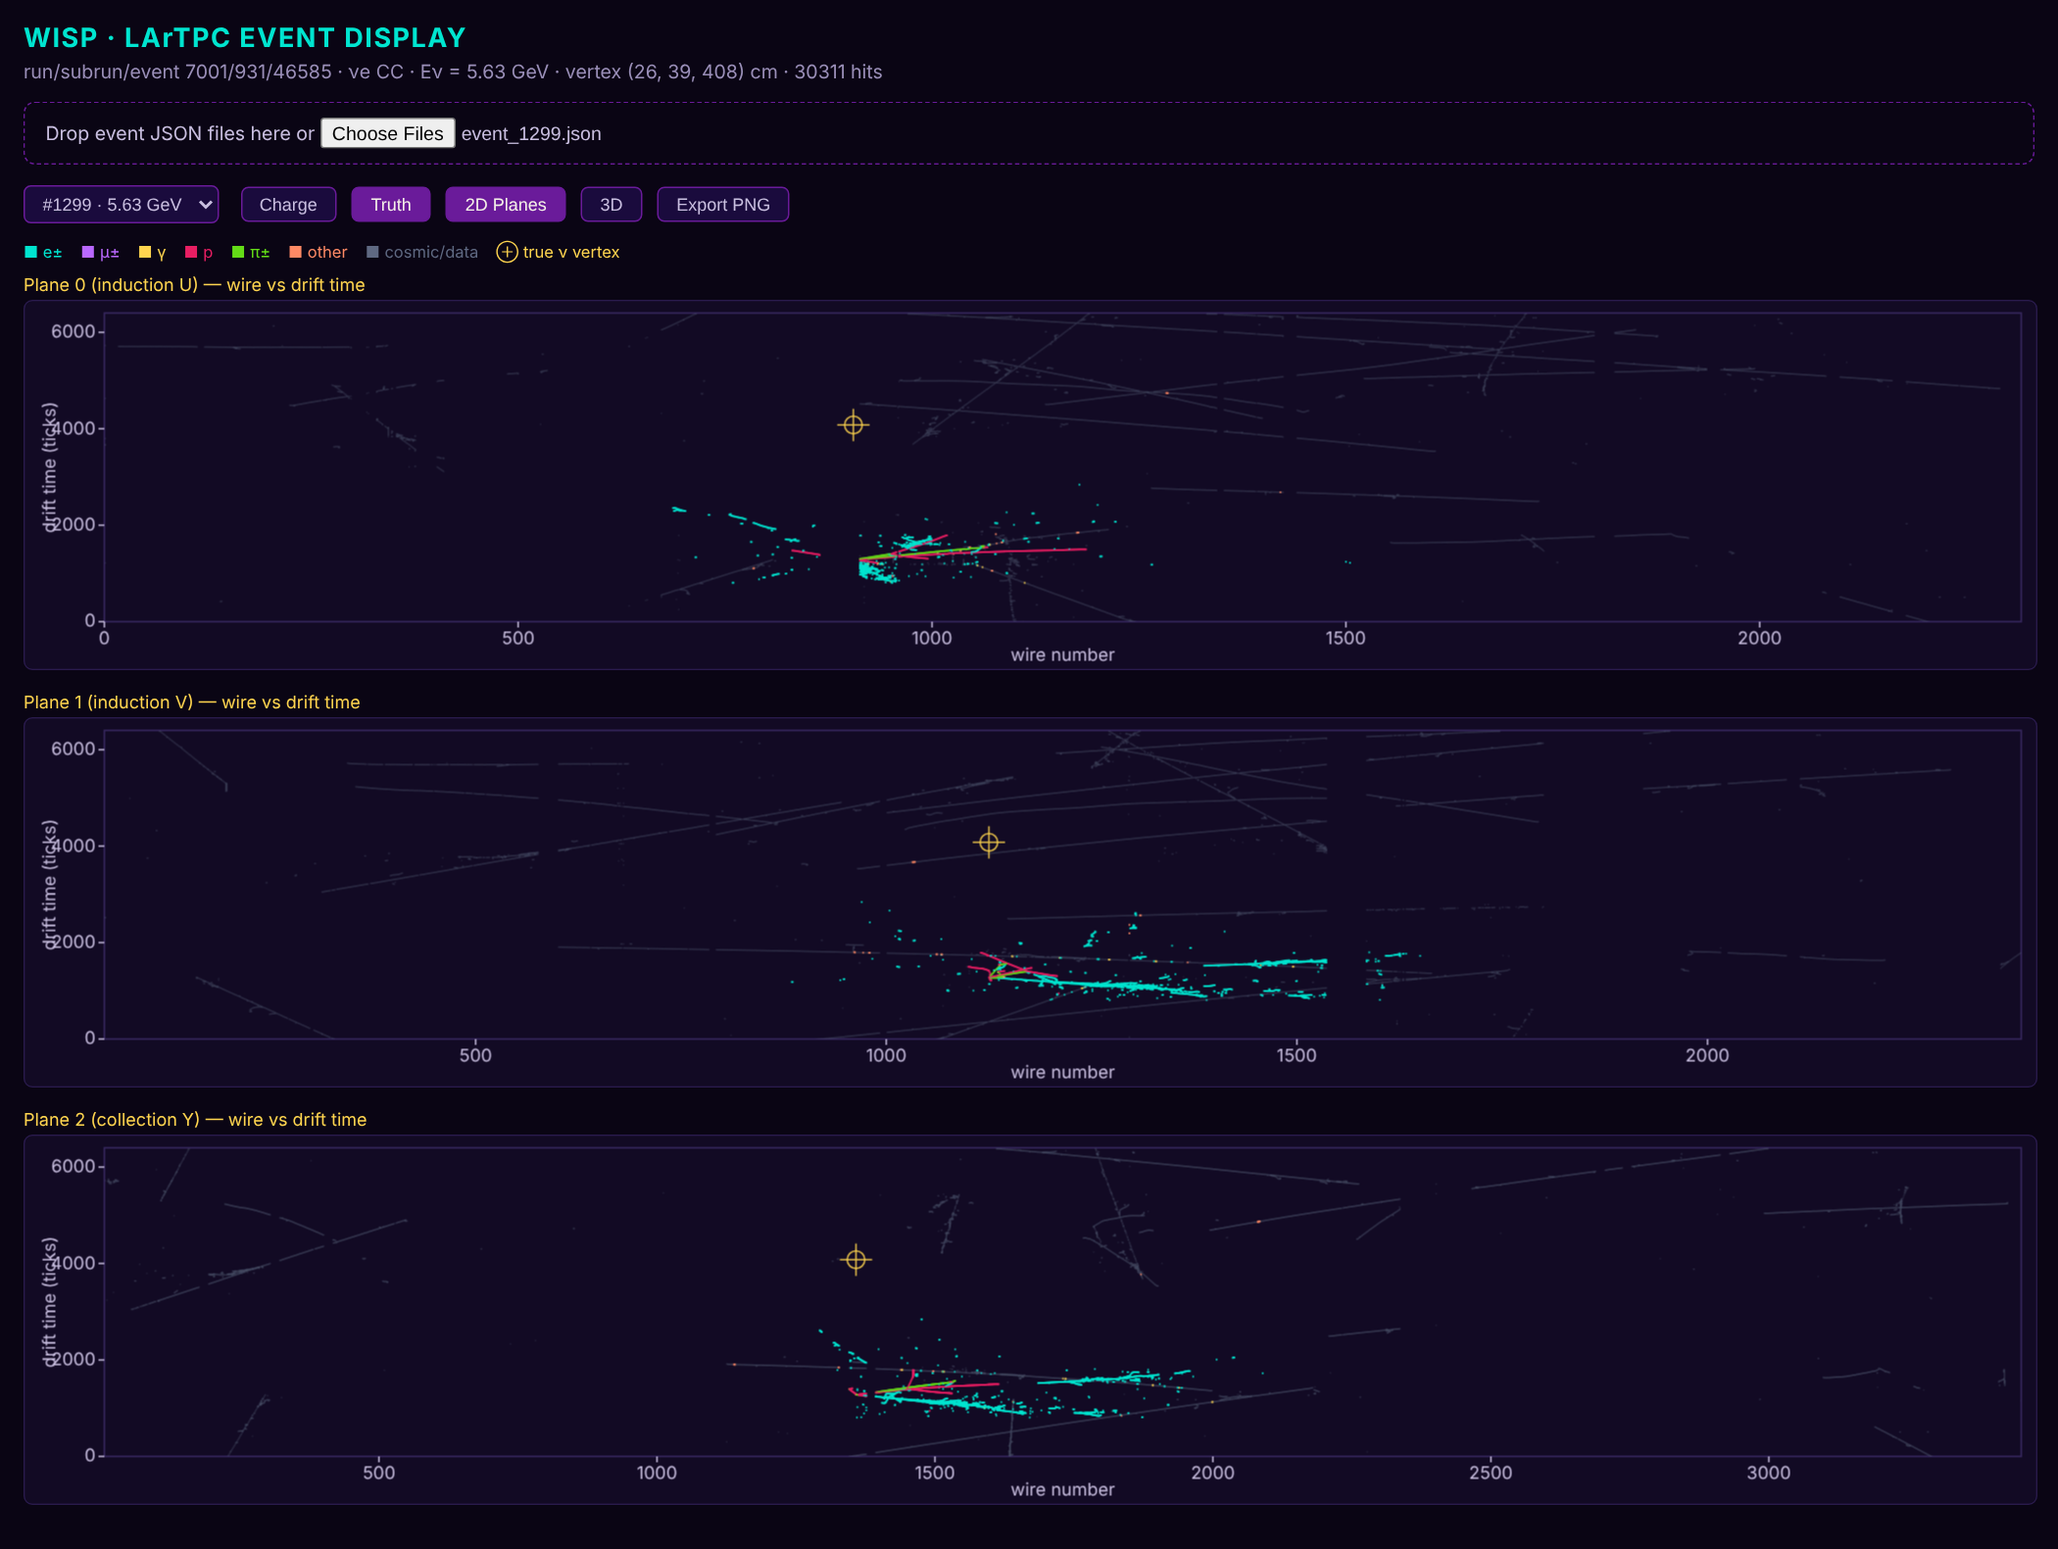
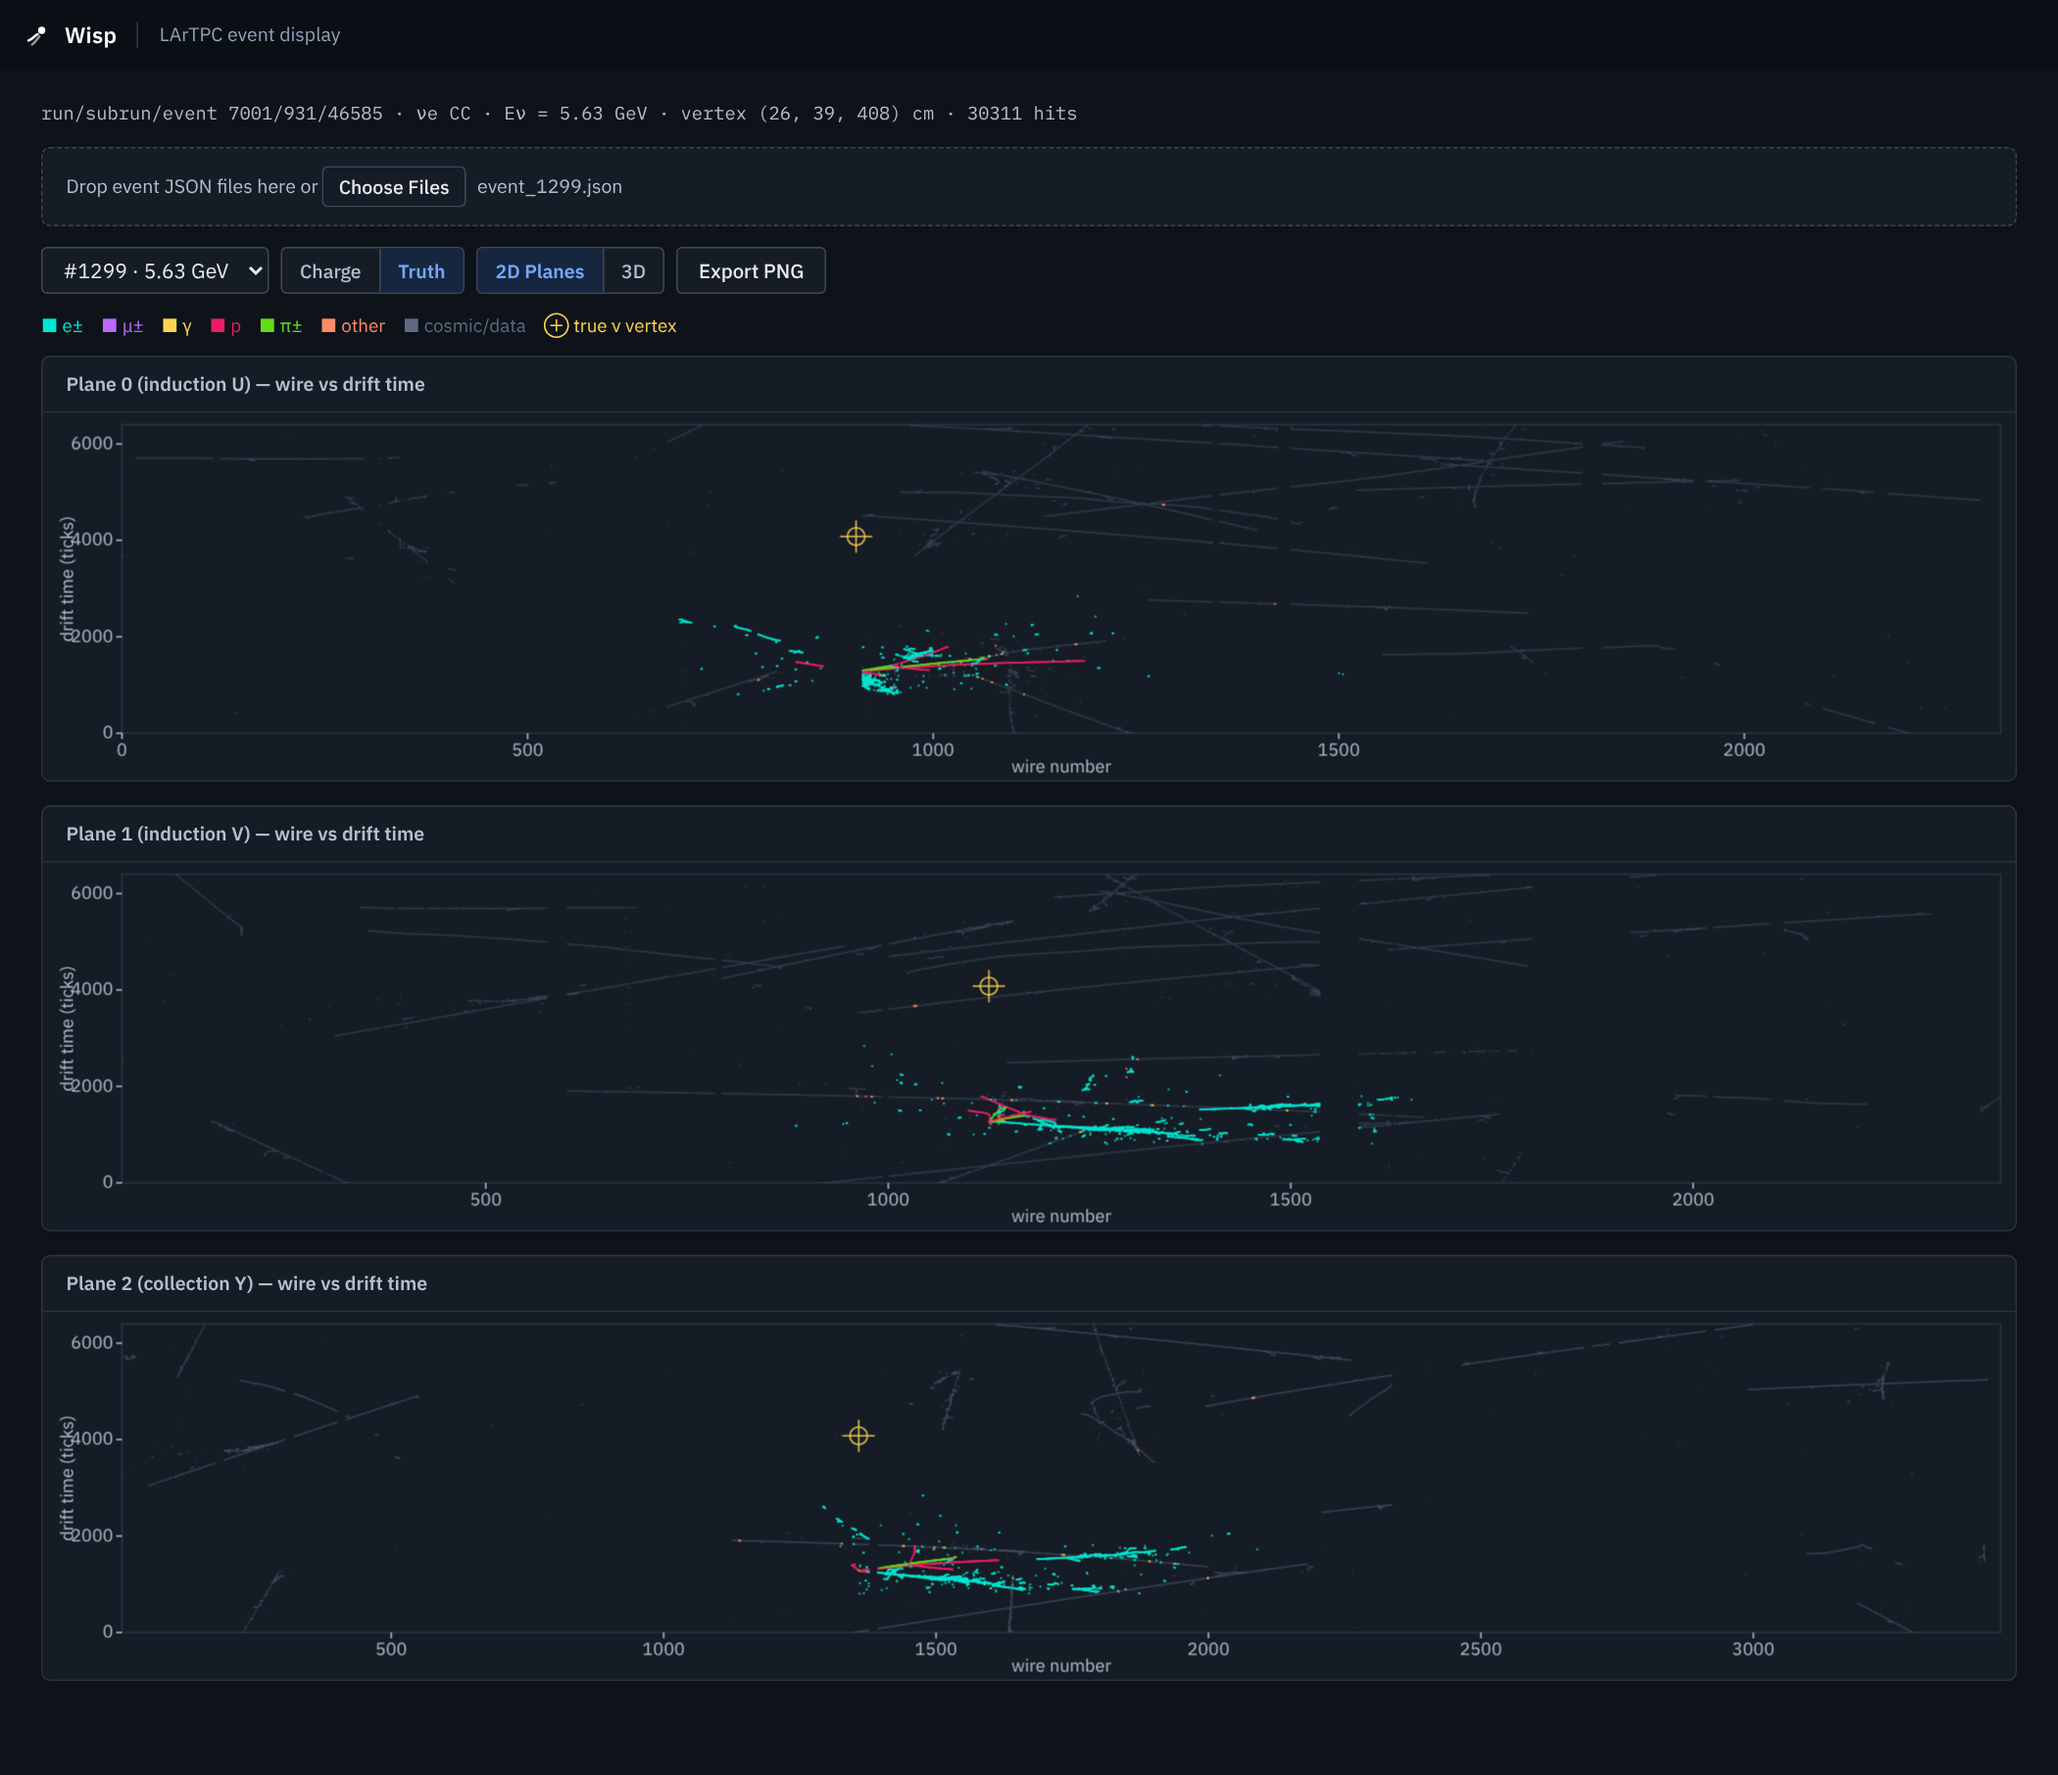
Adopt the Faerie dark theme: IBM Plex, top bar, segmented controls; retake screenshots
Claude-Session: https://claude.ai/code/session_01QGxAVdhF9mKgdVPjjGYVio

diff --git a/index.html b/index.html
@@ -2,40 +2,87 @@
 <html lang="en">
 <head>
 <meta charset="utf-8">
+<meta name="viewport" content="width=device-width, initial-scale=1">
 <title>Wisp — LArTPC Event Display</title>
+<link rel="preconnect" href="https://fonts.googleapis.com">
+<link rel="preconnect" href="https://fonts.gstatic.com" crossorigin>
+<link rel="stylesheet" href="https://fonts.googleapis.com/css2?family=IBM+Plex+Mono:wght@400;500&family=IBM+Plex+Sans:wght@400;500;600&display=swap">
 <style>
-  body { background:#0A0514; color:#F5F1E8; font-family:system-ui,sans-serif;
-         margin:0; padding:16px; }
-  h1 { font-size:18px; color:#00E5D0; margin:0 0 4px; letter-spacing:1px; }
-  #meta { font-size:13px; color:#9a8fb8; margin-bottom:10px; min-height:18px; }
-  .plane { margin-bottom:14px; }
-  .plane label { font-size:12px; color:#FFD54F; display:block; margin-bottom:3px; }
-  canvas { background:#120a24; border:1px solid #2a1b4d; border-radius:6px;
-           width:100%; display:block; }
-  #drop { border:1px dashed #6A1B9A; border-radius:8px; padding:10px 14px;
-          font-size:13px; color:#c9bfe0; margin-bottom:14px; }
-  input[type=file] { color:#c9bfe0; font-size:13px; }
-  #bar button { background:#1A0B3D; color:#c9bfe0; border:1px solid #6A1B9A;
-    border-radius:5px; padding:4px 12px; margin-right:6px; font-size:12px;
-    cursor:pointer; }
-  #bar button.on { background:#6A1B9A; color:#F5F1E8; }
-  #bar { margin-bottom:12px; }
-  #legend { font-size:11px; color:#9a8fb8; margin-bottom:8px; }
-  #legend span { margin-right:12px; }
-  #view3d canvas { height:520px; cursor:grab; }
+  /* Faerie design tokens (dark). Layout: a dark top bar, flat bordered containers on a grey plane.
+     The web font is optional: offline, the system sans-serif stack takes over. */
+  :root {
+    color-scheme: dark;
+    --plane: #0e131a; --surface: #161c25; --surface-2: #1d2530; --surface-3: #25303d;
+    --line: #2a3441; --line-strong: #3d4a5b;
+    --ink: #e7ebf1; --ink-2: #b4bfcd; --ink-3: #8795a8;
+    --topbar: #0a0f16; --topbar-ink: #ffffff; --topbar-dim: #93a1b5;
+    --primary: #4c8df6; --primary-soft: #16263f; --link: #74a8f9; --focus: #74a8f9;
+    --radius: 6px; --radius-sm: 4px;
+    --sans: "IBM Plex Sans", "Segoe UI", system-ui, -apple-system, "Helvetica Neue", Arial, sans-serif;
+    --mono: "IBM Plex Mono", ui-monospace, "SF Mono", Menlo, Consolas, monospace;
+  }
+  * { box-sizing: border-box; }
+  body { margin: 0; background: var(--plane); color: var(--ink); font: 14px/1.45 var(--sans);
+         -webkit-font-smoothing: antialiased; font-variant-numeric: tabular-nums; }
+  :focus-visible { outline: 2px solid var(--focus); outline-offset: 2px; border-radius: 2px; }
+  .topbar { position: sticky; top: 0; z-index: 30; height: 48px; display: flex; align-items: center; gap: 14px;
+            padding: 0 16px; background: var(--topbar); color: var(--topbar-ink); }
+  .topbar .brand { display: flex; align-items: center; gap: 10px; font-weight: 600; font-size: 15px; letter-spacing: 0.01em; margin: 0; }
+  .topbar .context { padding-left: 14px; border-left: 1px solid rgba(255, 255, 255, 0.18); color: var(--topbar-dim);
+                     font-size: 13px; overflow: hidden; text-overflow: ellipsis; white-space: nowrap; }
+  .main { padding: 20px 28px 48px; max-width: 1520px; }
+  #meta { font: 12.5px var(--mono); color: var(--ink-2); margin-bottom: 14px; min-height: 18px; }
+  #drop { border: 1px dashed var(--line-strong); border-radius: var(--radius); background: var(--surface);
+          padding: 12px 16px; font-size: 13px; color: var(--ink-2); margin-bottom: 14px; }
+  input[type=file] { color: var(--ink-2); font: inherit; }
+  input[type=file]::file-selector-button { height: 28px; padding: 0 10px; margin-right: 8px; border-radius: var(--radius-sm);
+          border: 1px solid var(--line-strong); background: var(--surface); color: var(--ink); font: 500 13px var(--sans); cursor: pointer; }
+  input[type=file]::file-selector-button:hover { background: var(--surface-2); border-color: var(--ink-3); }
+  #bar { display: flex; align-items: center; gap: 8px; flex-wrap: wrap; margin-bottom: 12px; }
+  #evsel { font: inherit; color: var(--ink); background: var(--surface); border: 1px solid var(--line-strong);
+           border-radius: var(--radius-sm); padding: 0 10px; height: 32px; }
+  .seg { display: inline-flex; border: 1px solid var(--line-strong); border-radius: var(--radius-sm); overflow: hidden; background: var(--surface); }
+  .seg button { border: 0; background: transparent; color: var(--ink-2); padding: 0 12px; height: 30px; font: 500 13px var(--sans); cursor: pointer; }
+  .seg button + button { border-left: 1px solid var(--line-strong); }
+  .seg button:hover { background: var(--surface-2); }
+  .seg button.on { background: var(--primary-soft); color: var(--link); font-weight: 600; }
+  .btn { display: inline-flex; align-items: center; gap: 6px; height: 32px; padding: 0 14px; border-radius: var(--radius-sm); cursor: pointer;
+         border: 1px solid var(--line-strong); background: var(--surface); color: var(--ink); font: 500 13.5px var(--sans); white-space: nowrap; }
+  .btn:hover { background: var(--surface-2); border-color: var(--ink-3); }
+  #legend { font-size: 12.5px; color: var(--ink-3); margin-bottom: 12px; }
+  #legend span { margin-right: 12px; }
+  .plane, #view3d { background: var(--surface); border: 1px solid var(--line); border-radius: var(--radius); margin-bottom: 16px; overflow: hidden; }
+  .plane label, #view3d label { display: block; padding: 10px 16px; border-bottom: 1px solid var(--line);
+         font: 600 13px var(--sans); color: var(--ink-2); }
+  canvas { background: var(--surface); width: 100%; display: block; }
+  #view3d canvas { height: 520px; cursor: grab; }
 </style>
 </head>
 <body>
-<h1>WISP · LArTPC EVENT DISPLAY</h1>
+<header class="topbar">
+  <h1 class="brand">
+    <svg viewBox="0 0 16 16" width="18" height="18" fill="none" stroke="currentColor" stroke-width="1.5" stroke-linecap="round" aria-hidden="true">
+      <circle cx="11" cy="5" r="2.2" fill="currentColor" stroke="none"/>
+      <path d="M8.6 7.4C6.2 8.6 5.6 10.4 3 11.2"/><path d="M9.6 8.6C8 10.6 7.4 12.2 5.2 13.6" opacity=".55"/>
+    </svg>
+    Wisp
+  </h1>
+  <div class="context">LArTPC event display</div>
+</header>
+<div class="main">
 <div id="meta">Load an event JSON produced by extract_event.py</div>
 <div id="drop">Drop event JSON files here or <input type="file" id="file" accept=".json" multiple></div>
 <div id="bar">
-  <select id="evsel" style="background:#1A0B3D;color:#c9bfe0;border:1px solid #6A1B9A;border-radius:5px;padding:4px 8px;margin-right:10px;font-size:12px;display:none"></select>
-  <button id="bCharge" class="on">Charge</button>
-  <button id="bTruth">Truth</button>
-  <button id="b2d" class="on">2D Planes</button>
-  <button id="b3d">3D</button>
-  <button id="bPng">Export PNG</button>
+  <select id="evsel" aria-label="Event" style="display:none"></select>
+  <div class="seg" role="group" aria-label="Coloring">
+    <button id="bCharge" class="on">Charge</button>
+    <button id="bTruth">Truth</button>
+  </div>
+  <div class="seg" role="group" aria-label="View">
+    <button id="b2d" class="on">2D Planes</button>
+    <button id="b3d">3D</button>
+  </div>
+  <button id="bPng" class="btn">Export PNG</button>
 </div>
 <div id="legend"></div>
 <div id="view2d">
@@ -47,7 +94,7 @@
   <canvas id="c2" height="220"></canvas></div>
 </div>
 <div id="view3d" style="display:none">
-  <label style="font-size:12px;color:#FFD54F">True particle trajectories — drag to orbit, shift-drag or right-drag to pan, wheel to zoom, R to reset</label>
+  <label>True particle trajectories — drag to orbit, shift-drag or right-drag to pan, wheel to zoom, R to reset</label>
   <canvas id="c3d" height="520"></canvas>
 </div>
 <script>
@@ -100,7 +147,7 @@ function drawPlane(canvas, d, particles, meta, planeIdx) {
   canvas.style.height = "250px";
   canvas.width = canvas.clientWidth * dpr;
   canvas.height = 250 * dpr;
-  ctx.fillStyle = "#120a24";
+  ctx.fillStyle = "#161c25";
   ctx.fillRect(0, 0, canvas.width, canvas.height);
   if (!d || d.wire.length === 0) return;
   const mL = 54 * dpr, mB = 32 * dpr, mT = 8 * dpr, mR = 10 * dpr;
@@ -110,9 +157,9 @@ function drawPlane(canvas, d, particles, meta, planeIdx) {
   const X = w => mL + (w - wmin) / (wmax - wmin || 1) * W;
   const Y = t => mT + (1 - (t - tmin) / (tmax - tmin || 1)) * H;
   // frame, ticks, labels
-  ctx.strokeStyle = "#3a2a63"; ctx.lineWidth = dpr;
+  ctx.strokeStyle = "#2a3441"; ctx.lineWidth = dpr;
   ctx.strokeRect(mL, mT, W, H);
-  ctx.fillStyle = "#c9bfe0"; ctx.font = `${12 * dpr}px system-ui`;
+  ctx.fillStyle = "#b4bfcd"; ctx.font = `${12 * dpr}px "IBM Plex Sans", system-ui`;
   ctx.textAlign = "center"; ctx.textBaseline = "top";
   for (const v of ticks(wmin, wmax, 8)) {
     ctx.fillRect(X(v) - 0.5 * dpr, mT + H, dpr, 4 * dpr);
@@ -196,7 +243,7 @@ function draw3D(data) {
   const cv = document.getElementById("c3d"), ctx = cv.getContext("2d");
   cv.width = cv.clientWidth * devicePixelRatio;
   cv.height = 520 * devicePixelRatio;
-  ctx.fillStyle = "#120a24"; ctx.fillRect(0, 0, cv.width, cv.height);
+  ctx.fillStyle = "#161c25"; ctx.fillRect(0, 0, cv.width, cv.height);
   const ps = data.particles.filter(p => p.n_hits >= 5 || p.mom_gev > 0.1);
   if (!ps.length) return;
   const ctr = data.meta.nu_vtx_cm;
@@ -211,7 +258,7 @@ function draw3D(data) {
             cv.height / 2 - y1 * S + panY * devicePixelRatio];
   };
   // detector outline (MicroBooNE active volume, cm)
-  ctx.strokeStyle = "rgba(106,27,154,0.5)"; ctx.lineWidth = devicePixelRatio;
+  ctx.strokeStyle = "rgba(61,74,91,0.95)"; ctx.lineWidth = devicePixelRatio;
   const B = [[0,-116,0],[256,-116,0],[256,116,0],[0,116,0],
              [0,-116,1037],[256,-116,1037],[256,116,1037],[0,116,1037]];
   const E = [[0,1],[1,2],[2,3],[3,0],[4,5],[5,6],[6,7],[7,4],[0,4],[1,5],[2,6],[3,7]];
@@ -236,9 +283,9 @@ function draw3D(data) {
   ctx.beginPath(); ctx.arc(v[0], v[1], 8 * devicePixelRatio, 0, 7); ctx.stroke();
 
   const dpr = devicePixelRatio;
-  ctx.font = `${12 * dpr}px system-ui`;
+  ctx.font = `${12 * dpr}px "IBM Plex Sans", system-ui`;
   // dimension labels on detector box edges
-  ctx.fillStyle = "rgba(201,191,224,0.75)";
+  ctx.fillStyle = "rgba(180,191,205,0.8)";
   ctx.textAlign = "center"; ctx.textBaseline = "middle";
   const mid = (a, b) => [(a[0] + b[0]) / 2, (a[1] + b[1]) / 2];
   const pA = proj(B[0]), pB = proj(B[4]);
@@ -250,7 +297,7 @@ function draw3D(data) {
   if (dl > 30 * dpr) {
     const ux = dzx / dl, uy = dzy / dl;
     const tipx = m1[0] + ux * 10 * dpr, tipy = m1[1] + uy * 10 * dpr;
-    ctx.strokeStyle = "rgba(201,191,224,0.9)"; ctx.lineWidth = 1.5 * dpr;
+    ctx.strokeStyle = "rgba(180,191,205,0.95)"; ctx.lineWidth = 1.5 * dpr;
     ctx.beginPath();
     ctx.moveTo(tipx - (ux * 7 + uy * 4) * dpr, tipy - (uy * 7 - ux * 4) * dpr);
     ctx.lineTo(tipx, tipy);
@@ -341,8 +388,8 @@ document.getElementById("bPng").onclick = () => {
   const out = document.createElement("canvas");
   out.width = w; out.height = h;
   const ctx = out.getContext("2d");
-  ctx.fillStyle = "#0A0514"; ctx.fillRect(0, 0, w, h);
-  ctx.fillStyle = "#F5F1E8"; ctx.font = `${13 * dpr}px system-ui`;
+  ctx.fillStyle = "#0e131a"; ctx.fillRect(0, 0, w, h);
+  ctx.fillStyle = "#F5F1E8"; ctx.font = `${13 * dpr}px "IBM Plex Sans", system-ui`;
   ctx.fillText("Wisp · " + document.getElementById("meta").textContent,
                10 * dpr, 22 * dpr);
   let y = header;
@@ -385,5 +432,6 @@ document.getElementById("drop").addEventListener("drop", e => {
 });
 window.addEventListener("resize", () => window._last && render(window._last));
 </script>
+</div>
 </body>
 </html>
